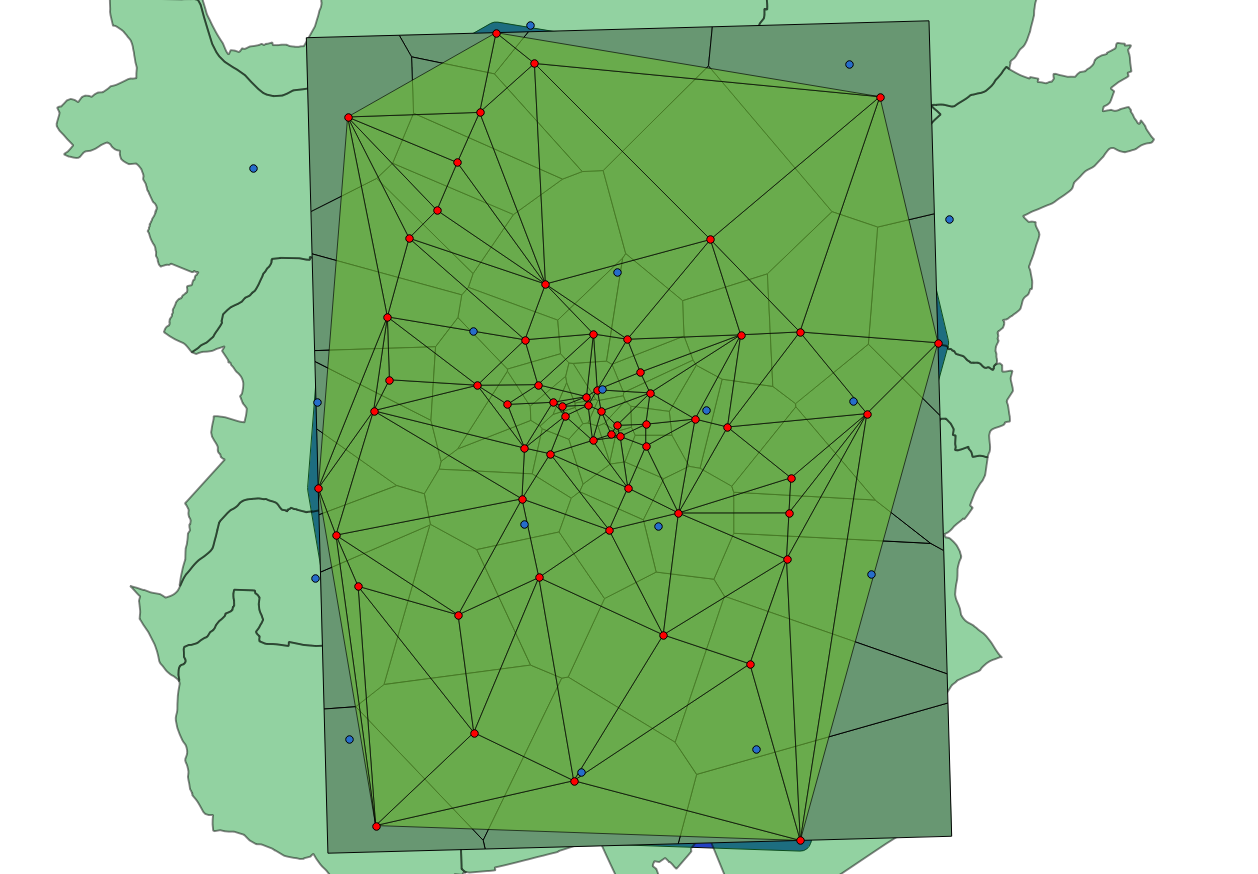
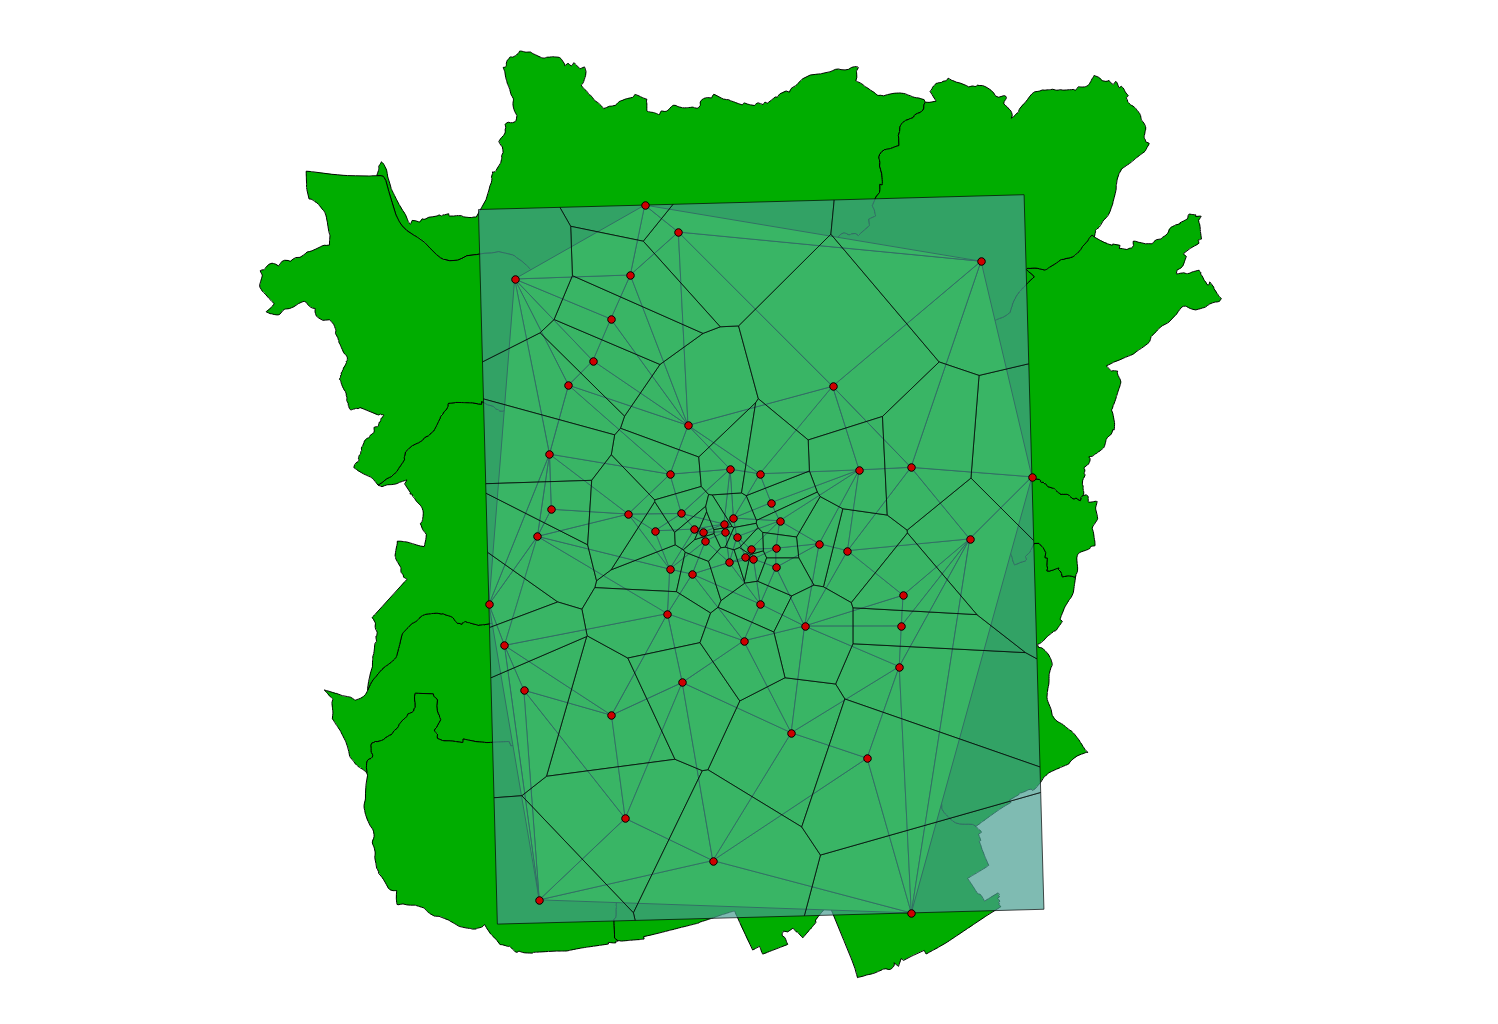
add apotheken shape; update qgis einleitung teil 1; update documentation

diff --git a/doc/einleitung-quantum-gis-1.md b/doc/einleitung-quantum-gis-1.md
@@ -1,5 +1,5 @@
 # EINLEITUNG QUANTUM GIS - TEIL 1 (VEKTOR)
-Diese Einleitungs-Reihe soll AnfängerInnen an die GIS-Software Quantums GIS und das Verwenden unterschiedlichster Datentypen und -quellen heran führen. Wer noch nie mit Quantum GIS gearbeitet hat kann gleich mit den hier folgenden Schritten beginnen. HIlfreich ist dazu der [Harvard Video Workshop](https://www.youtube.com/playlist?list=PL0AAB19E208B14E96) und [Jarrett Totton Quantum GIS Video Workshop](https://www.youtube.com/playlist?list=PLDEFCFD4D118823AA&feature=mh_lolz) um das Programm besser zu verstehen.
+Diese Einleitungs-Reihe soll AnfängerInnen an die GIS-Software Quantums GIS und das Verwenden unterschiedlichster Datentypen und -quellen heran führen. Wer noch nie mit Quantum GIS gearbeitet hat kann gleich mit den hier folgenden Schritten beginnen. Hilfreiche Quellen für das Installieren und um Quantum GIS besser kennen zu lernen ist in [documentation.md unter Quantum GIS](https://github.com/skasberger/einfuehrung-fossgis/blob/master/doc/documentation.md#quantum-gis) zu finden.
 
 Die Ergebnisse sowie die Daten sind im [GitHub Repository](https://github.com/skasberger/einfuehrung-fossgis) zu sehen und werden darin kontinuierlich erweitert. Grundlegenes  Wissens rund um FOSSGIS ist in der [documentation.md](https://github.com/skasberger/einfuehrung-fossgis/blob/master/doc/documentation.md) Datei zu finden. 
 
@@ -51,26 +51,53 @@ Danach sollte das Bild so aussehen. Der erzeugte Raster Layer ist auch unter [da
 
 ![Apotheken Heatmap](http://openscience.alpine-geckos.at/project/einfuehrung-fossgis/images/qgis-examples/heatmap-2.png)
 
-## Geometrische Aktionen
+## Geometrische Bearbeitungen
 
-### Schwerpunkt 
+### Schwerpunkt
+Folgendes ist zu tun um den Schwerpunkt eines Polygons zu finden und in einem eigenen Layer als Punkte zu speichern. Unter "Vektor" -> Geometrie Werkzeuge" "Polygonschwerpunkte" wählen, dann den Bezirksgrenzen Layer und Speicherort auswählen. 
 ![Bezirke Schwerpunkte](http://openscience.alpine-geckos.at/project/einfuehrung-fossgis/images/qgis-examples/schwerpunkte.png)
 
+Der dadurch erzeugte Layer ist auch unter [data/shapefiles/qgis-example/bezirk-schwerpunkte](https://github.com/skasberger/einfuehrung-fossgis/tree/master/data/shapefiles/qgis-example/bezirk-schwerpunkte) zu finden.
+
 ### Voronoi Diagramm und Delaunay Triangulation
-Voronoi Diagramm zu den Apotheken erstellt
-schwerpunkte der bezirke
+''Voronoi Diagramm''
+Ein Voronoi Diagramm erzeugt zu jedem Punkt Flächen, in welchen alle Punkte innerhalb der Fläche dem Ausgangs-Punkt selber von der Distanz am nähesten sind ([Mehr zu Voronoi Diagramm?](https://github.com/skasberger/einfuehrung-fossgis/blob/master/doc/documentation.md#voronoi-diagramm)). 
+
+Um ein Voronoi Diagramm in Quantum GIS zu erstellen, unter "Vektor" -> "Geometrie-Werkzeuge" auf "Voronoi Diagramm" klicken. Im Menu dann den Apotheken POI Layer und den passende Speicherort auswählen.
+
 ![Voronoi Diagramm](http://openscience.alpine-geckos.at/project/einfuehrung-fossgis/images/qgis-examples/voronoi.png)
-Delaunay Triangulation
+Der Voronoi Layer ist im Repository unter [data/shapefiles/qgis-example/apotheken-voronoi](https://github.com/skasberger/einfuehrung-fossgis/tree/master/data/shapefiles/qgis-example/apotheken-voronoi) zu finden.
+
+''Delaunay Triangulation''
+Bei der Delaunay Triangulation werden Punkte im R^2 so zu Dreiecken vernetzt, dass innerhalb des Kreises, auf dem die drei Dreieckspunkte liegen, keine anderen Punkte enthalten sind ([Was ist Delaunay Triangulation?](https://github.com/skasberger/einfuehrung-fossgis/blob/master/doc/documentation.md#delaunay-triangulation)).
+
+Um eine Delaunay Triangulation in Quantum GIS durchzuführen, unter "Vektor" -> "Geometrie-Werkzeuge" auf "Delaunay Triangulation" klicken. Im Menu dann den Apotheken POI Layer und den passende Speicherort auswählen.
+
 ![Delaunay Triangulation](http://openscience.alpine-geckos.at/project/einfuehrung-fossgis/images/qgis-examples/delaunay.png)
-Delaunay Triangulation über Voronoi Diagramm
+
+Der Delaunay Layer ist im Repository unter [data/shapefiles/qgis-example/apotheken-delaunay](https://github.com/skasberger/einfuehrung-fossgis/tree/master/data/shapefiles/qgis-example/apotheken-delaunay) zu finden.
+
+''Delaunay Triangulation über Voronoi Diagramm''
+Wenn man die beiden Layer übereinander legt (mittels Transparenz) sieht man schön den Zusammenhang der beiden Methoden. Das Voronoi Diagramm erzeugt Flächen, wo die Punkte die Schwerpunkte der Flächen sind. Die Delaunay Triangulation verbindet diese Schwerpunkte von allen Flächen die sich berühren miteinander.
+
 ![Voronoi Diagramm und Delaunay Triangulation](http://openscience.alpine-geckos.at/project/einfuehrung-fossgis/images/qgis-examples/voronoi-delaunay.png)
 
 ### Konvexe Huelle und Puffer
-Eine konvexe Hülle ist die kleinstmögliche Menge einer bestimmten Menge an Geometrien. In diesem Fall die kleinste Hülle zu den Apotheken in Graz.
+'' Konvexe Hülle''
+Eine konvexe Hülle beinhaltet die kleinstmögliche eingeschlossene Menge, in diesem Fall die kleinste Hülle rund um die Grazer Apotheken.
+
+Um eine Konvexe Hülle zu einem Vektorlayer zu erzeugen, unter "Vektor" -> "Geoverarbeitungswerkzeuge" auf "Konvexe Hülle" klicken. Im Menu dann den Apotheken POI Layer, den passende Speicherort und "Einzelne konvexe Minimalhülle erzeugen" auswählen.
+
 ![Konvexe Huelle](http://openscience.alpine-geckos.at/project/einfuehrung-fossgis/images/qgis-examples/konvexe-huelle.png)
 
-Zur konvexen Hülle wird ein äusserer Puffer erzeugt. Als Größe für den Puffer wurde 200 Meter gewählt.
+Die Konvexe Hülle ist im Repository unter [data/shapefiles/qgis-example/apotheken-huelle](https://github.com/skasberger/einfuehrung-fossgis/tree/master/data/shapefiles/qgis-example/apotheken-huelle) zu finden.
+
+''Puffer''
+Zur konvexen Hülle wird ein äusserer Puffer erzeugt. Um einen Puffer zu einer Geometrie zu erzeugen, unter "Vektor" -> "Geoverarbeitungswerkzeuge" auf "Puffer" klicken. Im Menu dann den Apotheken POI Layer und den passende Speicherort auswählen, als Pufferabstand wird 200 gewählt (was in diesem Layer 200 Meter bedeutet).
+
 ![Puffer](http://openscience.alpine-geckos.at/project/einfuehrung-fossgis/images/qgis-examples/puffer.png)
+
+Der Puffer ist im Repository unter [data/shapefiles/qgis-example/apotheken-puffer](https://github.com/skasberger/einfuehrung-fossgis/tree/master/data/shapefiles/qgis-example/apotheken-puffer) zu finden.
 
 ### Distanzmatrix
 Vektor -> Analyse-Werkzeuge -> Distanzmatrix 

diff --git a/doc/documentation.md b/doc/documentation.md
@@ -514,6 +514,9 @@ GitHub ist ein webbasierter Hosting-Dienst für Software-Entwicklungsprojekte. E
 
 ## Analyse & Präsentation
 
+### Konvexe Hülle
+Die konvexe Hülle einer Teilmenge ist die kleinste konvexe Menge, die die Ausgangsmenge enthält. Betrachtet wird dieses Objekt in unterschiedlichen mathematischen Disziplinen wie zum Beispiel in der konvexen Analysis. [43]
+
 ### Voronoi Diagramm
 Als Voronoi-Diagramm, auch Thiessen-Polygonen oder Dirichlet-Zerlegung, wird eine Zerlegung des Raumes in Regionen bezeichnet, die durch eine vorgegebene Menge an Punkten des Raumes, hier als Zentren bezeichnet, bestimmt werden. Jede Region wird durch genau ein Zentrum bestimmt und umfasst alle Punkte des Raumes, die in Bezug zur euklidischen Metrik näher an dem Zentrum der Region liegen, als an jedem anderen Zentrum. Derartige Regionen werden auch als Voronoi-Regionen bezeichnet. Aus allen Punkten, die mehr als ein nächstgelegenes Zentrum besitzen und somit die Grenzen der Regionen bilden, entsteht das Voronoi-Diagramm. [23]
 
@@ -605,3 +608,4 @@ Sämtlicher Inhalt dieses Werkes steht unter der [Creative Commons Namensnennung
 [40]: https://de.wikipedia.org/wiki/GeoRSS
 [41]: https://de.wikipedia.org/wiki/Internationale_Kartographische_Vereinigung
 [42]: https://de.wikipedia.org/wiki/Heatmap
+[43]: https://de.wikipedia.org/wiki/Konvexe_H%C3%BClle
